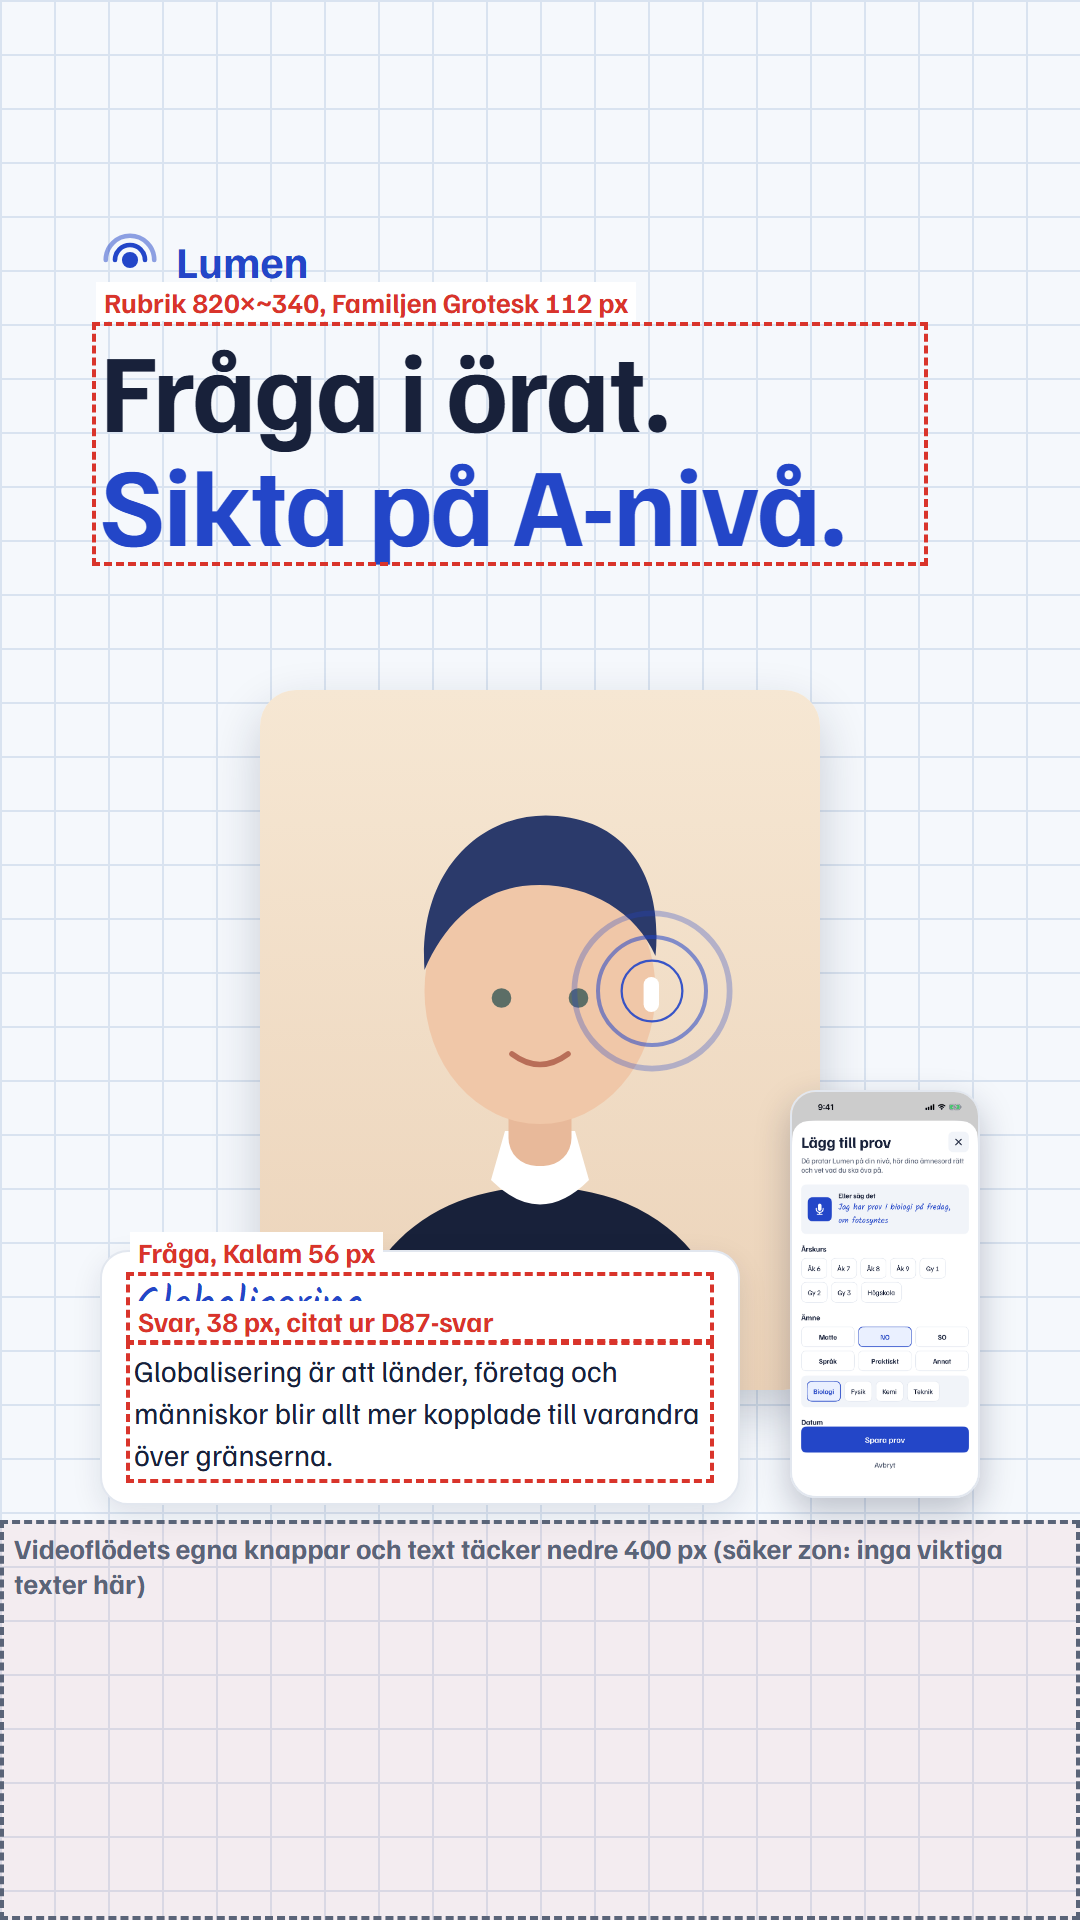
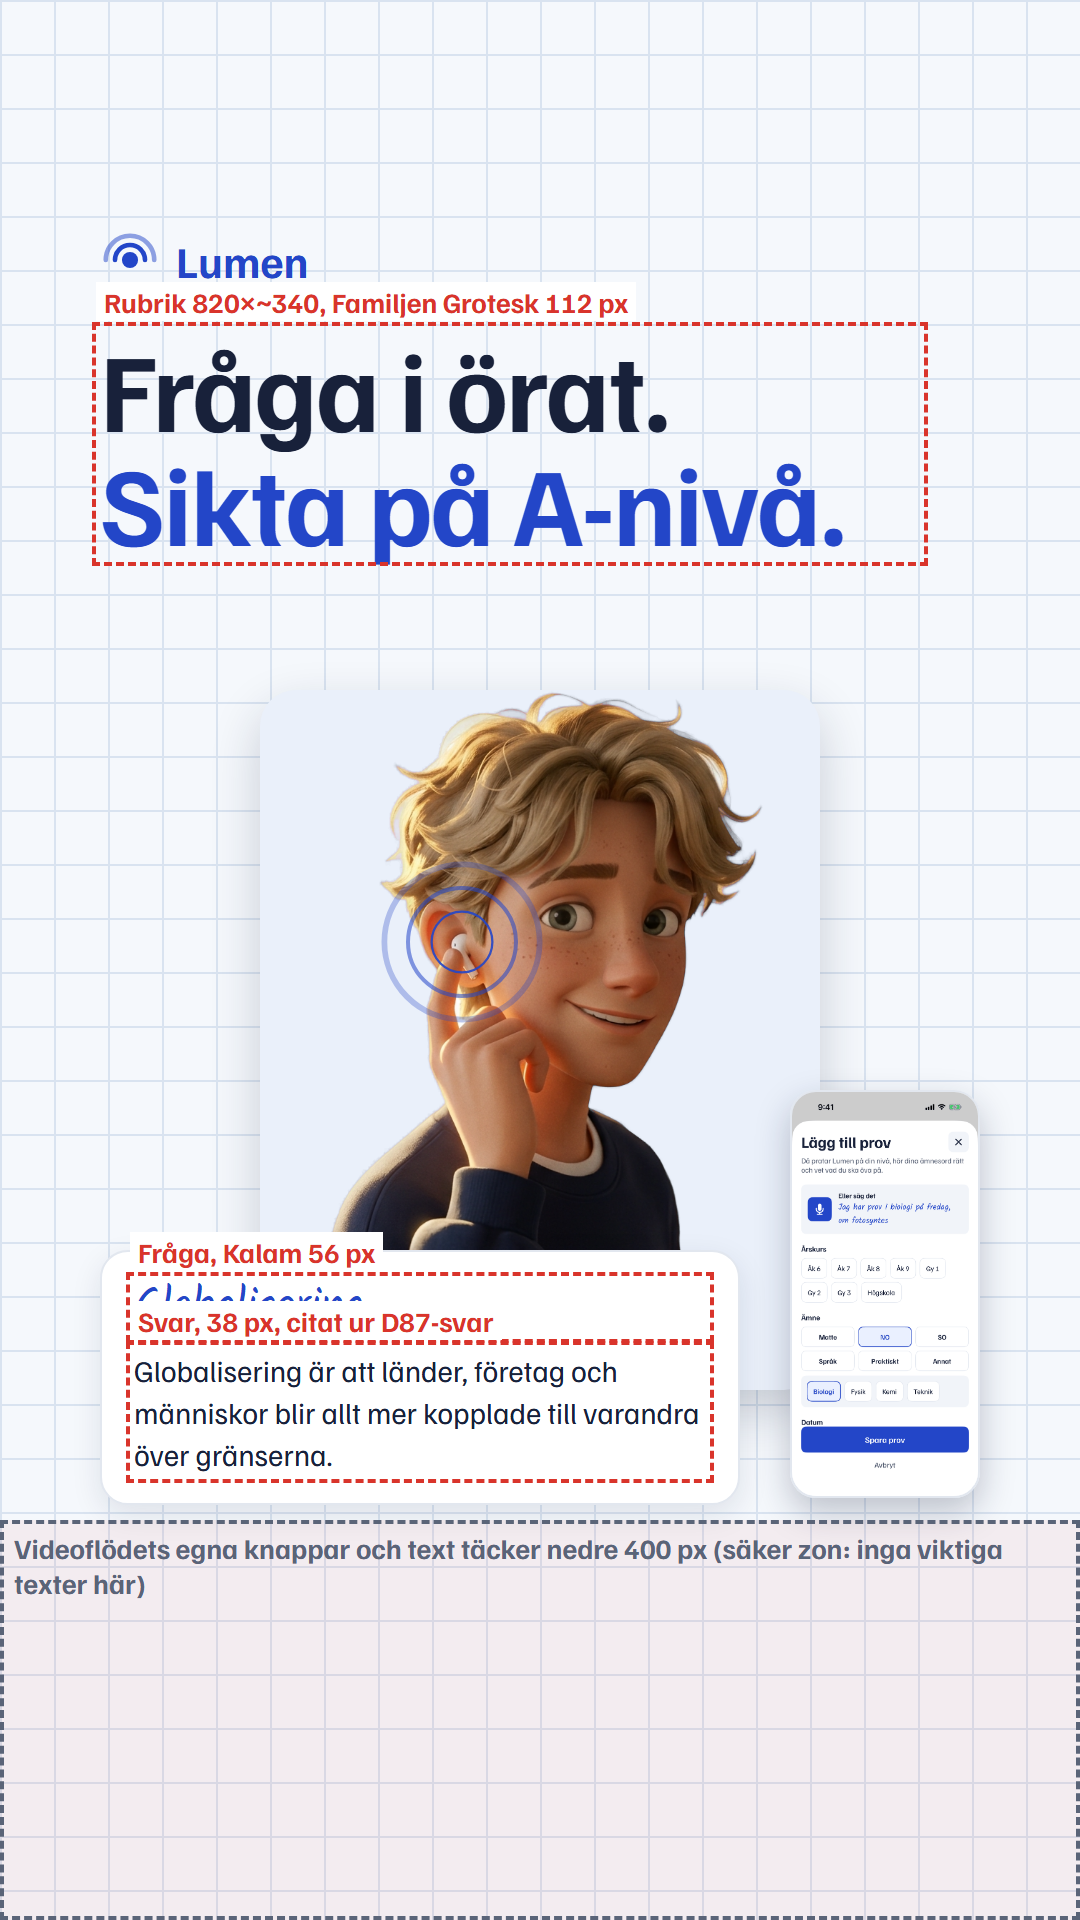
Kelly Ke7 klar: scrollstyrd Elias-hero, annonser och OG med riktiga bilden

Changed region(s): [[0.2139, 0.3438, 0.7639, 0.75]]

diff --git a/site/index.html b/site/index.html
@@ -16,7 +16,7 @@
 <meta property="og:url" content="https://aronstenlund-code.github.io/aronstenlund-airpods-ai/">
 <meta property="og:title" content="Fråga högt. Få svaret i örat.">
 <meta property="og:description" content="Telefonen stannar i fickan. Prova här, svaret läses upp.">
-<meta property="og:image" content="https://aronstenlund-code.github.io/aronstenlund-airpods-ai/og.png">
+<meta property="og:image" content="https://aronstenlund-code.github.io/aronstenlund-airpods-ai/og-elias.png">
 <meta property="og:image:width" content="1200">
 <meta property="og:image:height" content="630">
 <meta property="og:image:alt" content="Lumen. Fråga högt. Få svaret i örat.">
@@ -218,17 +218,18 @@
   .photo svg { width: 28px; height: 28px; }
   .photo span { max-width: 30ch; }
 
-  /* Ke7: Elias med ringar från hörluren. */
-  .elias { position: relative; margin: 0 auto; width: min(100%, 360px); aspect-ratio: 4 / 5; border-radius: 18px; overflow: hidden; background: var(--chip); border: 1px solid var(--line); }
-  .elias img { display: block; width: 100%; height: 100%; object-fit: cover; }
-  .rings { position: absolute; left: var(--ex); top: var(--ey); width: 0; height: 0; }
-  .rings i { position: absolute; left: -60px; top: -60px; width: 120px; height: 120px; border-radius: 50%; border: 3px solid #2346C8; opacity: 0; transform: scale(.15); }
-  @media (prefers-reduced-motion: no-preference) {
-    .rings i { animation: ering 3.6s cubic-bezier(.23,1,.32,1) infinite; }
-    .rings i:nth-child(2) { animation-delay: .35s; } .rings i:nth-child(3) { animation-delay: .7s; }
-    @keyframes ering { 0% { opacity: 0; transform: scale(.15); } 12% { opacity: .9; } 55%, 100% { opacity: 0; transform: scale(1.6); } }
-  }
-  @media (prefers-reduced-motion: reduce) { .rings i { opacity: .55; } .rings i:nth-child(1) { transform: scale(.3); } .rings i:nth-child(2) { transform: scale(.6); opacity: .35; } .rings i:nth-child(3) { transform: scale(.9); opacity: .2; } }
+  /* Ke7: Elias, scrollstyrd sekvens på canvas, ringar från hörluren. */
+  .elias { position: relative; margin: 0 auto; width: min(78%, 300px); aspect-ratio: 480 / 700; }
+  .elias img, .elias canvas { position: absolute; inset: 0; width: 100%; height: 100%; display: block; transform-origin: 50% 30%; will-change: transform; }
+  .elias canvas { visibility: hidden; }
+  .elias.live canvas { visibility: visible; } .elias.live img { visibility: hidden; }
+  .rings { position: absolute; left: var(--ex); top: var(--ey); width: 0; height: 0; pointer-events: none; }
+  .rings i { position: absolute; left: -50px; top: -50px; width: 100px; height: 100px; border-radius: 50%; border: 3px solid #2346C8; opacity: 0; transform: scale(.15); }
+  .elias.pulse .rings i { animation: ering 2.4s cubic-bezier(.23,1,.32,1) both; }
+  .elias.pulse .rings i:nth-child(2) { animation-delay: .25s; } .elias.pulse .rings i:nth-child(3) { animation-delay: .5s; }
+  @keyframes ering { 0% { opacity: 0; transform: scale(.15); } 15% { opacity: .9; } 70%, 100% { opacity: 0; transform: scale(1.8); } }
+  @media (prefers-color-scheme: dark) { .rings i { border-color: #7F9BFF; } }
+  @media (prefers-reduced-motion: reduce) { .elias.pulse .rings i { animation: none; opacity: .5; transform: scale(.7); } .elias.pulse .rings i:nth-child(2) { transform: scale(1.1); opacity: .3; } .elias.pulse .rings i:nth-child(3) { display: none; } }
 
   /* ---------- Demorutan ---------- */
   .demo {
@@ -583,7 +584,7 @@
     }
     .intro { grid-column: 1; grid-row: 1; }
     .points { grid-column: 1; grid-row: 2; }
-    .elias { grid-column: 1; grid-row: 3; margin: 0; width: min(100%, 420px); }
+    .elias { grid-column: 1; grid-row: 3; margin: 0; width: min(100%, 400px); }
     .demo { grid-column: 2; grid-row: 1 / span 3; align-self: start; position: sticky; top: 24px; padding: 26px 26px 28px; gap: 20px; }
     h1 { font-size: clamp(3.75rem, 6.2vw, 5.5rem); }
     .pitch { font-size: 1.5rem; margin-top: 16px; }
@@ -713,9 +714,10 @@
       <li><svg viewBox="0 0 24 24" fill="none" stroke="currentColor" stroke-width="2.2" stroke-linecap="round" stroke-linejoin="round" aria-hidden="true"><path d="M4 12.5l5 5L20 6.5"/></svg><span>Inget konto. Börja direkt.</span></li>
     </ul>
 
-    <!-- Ke7: Elias. Byt src mot img/elias.webp (frilagd bild, 4:5) när den finns; --ex/--ey är hörlurens plats i procent av bilden. -->
-    <figure class="elias" style="--ex:70%;--ey:43%">
-      <img src="img/elias-placeholder.svg" width="800" height="1000" alt="Elias, 17 år, med en vit trådlös hörlur i örat. Illustration, ingen verklig person.">
+    <!-- Ke7: Elias, scrollstyrd bildsekvens (site/img/elias-seq). Bild 1 laddas direkt, resten efter load. -->
+    <figure class="elias" id="elias" style="--ex:35%;--ey:33%">
+      <img id="elias-still" src="img/elias-seq/001.webp" width="480" height="700" alt="Elias, 17 år, med en vit trådlös hörlur i örat. AI-genererad figur, ingen verklig person.">
+      <canvas id="elias-cv" width="480" height="700" aria-hidden="true"></canvas>
       <span class="rings" aria-hidden="true"><i></i><i></i><i></i></span>
     </figure>
   </section>
@@ -1443,6 +1445,49 @@ showLeft();
 // Väcker funktionerna så att första frågan slipper kallstart. OPTIONS går igenom gatewayn och kostar ingenting.
 for (const fn of ["answer", "tts"]) fetch(SB + "/functions/v1/" + fn, { method: "OPTIONS" }).catch(() => {});
 getToken().catch(() => {});   // Felet visas när någon faktiskt frågar.
+
+// Ke7: scrollstyrd Elias. Visad bildruta glider mot målet (lerp), och vilar aldrig på en dålig vilobild.
+(() => {
+  const fig = document.getElementById("elias"); if (!fig) return;
+  const cv = document.getElementById("elias-cv"), still = document.getElementById("elias-still"), ctx = cv.getContext("2d");
+  const N = 120, BAD = [[22, 30], [48, 66], [85, 93]], RING = 38;
+  const reduced = matchMedia("(prefers-reduced-motion: reduce)").matches;
+  const step = matchMedia("(max-width: 959px)").matches ? 2 : 1;
+  const src = n => "img/elias-seq/" + String(n).padStart(3, "0") + ".webp";
+  if (reduced) { still.src = src(100); fig.classList.add("pulse"); return; }
+  const frames = new Array(N + 1);
+  let cur = 1, target = 1, shown = 1, tmo = 0, last = 0;
+  function load() {
+    const list = []; for (let n = 1; n <= N; n += step) list.push(n);
+    let i = 0;
+    const next = () => { if (i >= list.length) return; const n = list[i++]; const im = new Image(); im.decoding = "async"; im.onload = () => { frames[n] = im; if (n === 1) { fig.classList.add("live"); draw(1); } next(); }; im.onerror = next; im.src = src(n); };
+    next(); next();
+  }
+  function nearest(f) { for (let d = 0; d < N; d++) { if (frames[f - d]) return frames[f - d]; if (frames[f + d]) return frames[f + d]; } return null; }
+  function draw(f) { const im = nearest(f); if (im) { ctx.clearRect(0, 0, 480, 700); ctx.drawImage(im, 0, 0); } }
+  function progress() {
+    const r = fig.getBoundingClientRect(), vh = innerHeight;
+    return Math.min(1, Math.max(0, (vh * 0.85 - r.top) / (vh * 0.85)));
+  }
+  function settle() { // scrollen har stannat: glid till närmaste bra vilobild
+    for (const [a, b] of BAD) if (target >= a && target <= b) { target = (target - a < b - target) ? a - 1 : b + 1; }
+  }
+  function onScroll() { target = 1 + progress() * (N - 1); clearTimeout(tmo); tmo = setTimeout(settle, 140); kick(); }
+  let raf = 0; function kick() { if (!raf) raf = requestAnimationFrame(tick); }
+  function tick() {
+    raf = 0; shown += (target - shown) * 0.12;
+    if (Math.abs(target - shown) < 0.02) shown = target;
+    const f = Math.round(shown);
+    if (f !== cur) { cur = f; draw(f); }
+    if (cur >= RING) fig.classList.add("pulse"); else if (cur < RING - 8) fig.classList.remove("pulse");
+    const p = (shown - 1) / (N - 1); const z = 1 + 0.1 * p;
+    cv.style.transform = still.style.transform = `scale(${z.toFixed(3)}) translateY(${(-p * 2).toFixed(2)}%)`;
+    if (shown !== target) kick();
+  }
+  addEventListener("scroll", onScroll, { passive: true }); addEventListener("resize", onScroll);
+  const go = () => { load(); onScroll(); };
+  if (document.readyState === "complete") setTimeout(go, 0); else addEventListener("load", () => setTimeout(go, 0));
+})();
 </script>
 </body>
 </html>

diff --git a/docs/marketing/annonser/_src/ad.html b/docs/marketing/annonser/_src/ad.html
@@ -31,7 +31,7 @@ const ADS={
 2:{h:'Fråga i örat. <em>Sikta på A-nivå.</em>',q:'Globalisering',a:'Globalisering är att länder, företag och människor blir allt mer kopplade till varandra över gränserna.',img:'s12.png'},
 3:{h:'Plugga utan att <em>titta på skärmen</em>',q:'Vad händer i en näringskedja om rovdjuren försvinner?',a:'Om rovdjuren försvinner från en näringskedja rubbas balansen i hela kedjan.',img:'s47.png'}};
 const p=new URLSearchParams(location.search),n=p.get('n')||1,d=ADS[n];
-h.innerHTML=d.h;q.textContent=d.q;a.textContent=d.a;ph.src=d.img;el.src=p.get('real')?'elias-frilagd.png':'elias-placeholder.svg';
+h.innerHTML=d.h;q.textContent=d.q;a.textContent=d.a;ph.src=d.img;if(p.get('real')){document.querySelector('.el img').style.objectFit='contain';document.querySelector('.rg').style.cssText='left:36%;top:36%';document.querySelector('.el').style.background='#EAF0FA'}el.src=p.get('real')?'elias-frilagd.png':'elias-placeholder.svg';
 if(p.get('skiss')){document.body.classList.add('skiss');
  for(const [id,l] of [['h','Rubrik 820×~340, Familjen Grotesk 112 px'],['q','Fråga, Kalam 56 px'],['a','Svar, 38 px, citat ur D87-svar']]){const r=document.getElementById(id).getBoundingClientRect();const b=document.createElement('div');b.className='box';b.style.cssText=`left:${r.left-8}px;top:${r.top-8}px;width:${r.width+16}px;height:${r.height+16}px`;const t=document.createElement('span');t.textContent=l;t.style.cssText='position:absolute;left:0;top:-44px;background:#fff;padding:2px 8px;white-space:nowrap';b.appendChild(t);b.style.background='none';document.body.appendChild(b)}
  const z=document.createElement('div');z.className='box';z.style.cssText='left:0;top:1520px;width:1080px;height:400px;color:#5A6478;border-color:#5A6478';z.textContent='Videoflödets egna knappar och text täcker nedre 400 px (säker zon: inga viktiga texter här)';document.body.appendChild(z)}

diff --git a/docs/marketing/annonser/_src/og.html b/docs/marketing/annonser/_src/og.html
@@ -10,4 +10,4 @@ h1{position:absolute;left:70px;top:200px;width:620px;font-size:92px;line-height:
 </style><body><div class="l"><svg viewBox="0 0 26 26" fill="none"><circle cx="13" cy="13" r="3.5" fill="currentColor"/><path d="M6.5 13a6.5 6.5 0 0 1 13 0" stroke="currentColor" stroke-width="2" stroke-linecap="round"/><path d="M2.5 13a10.5 10.5 0 0 1 21 0" stroke="currentColor" stroke-width="2" stroke-linecap="round" opacity=".5"/></svg>Lumen</div>
 <h1>Fråga högt. <em>Få svaret i örat.</em></h1>
 <div class="el"><img id="el"><span class="rg"><i></i><i></i><i></i></span></div>
-<script>el.src=location.search.includes('real')?'elias-frilagd.png':'elias-placeholder.svg'</script></body>
+<script>el.src=location.search.includes('real')?'elias-frilagd.png':'elias-placeholder.svg';if(location.search.includes('real')){document.querySelector('.el img').style.objectFit='contain';document.querySelector('.rg').style.cssText='left:36%;top:36%'}</script></body>

diff --git a/prompts/queue/kelly.md b/prompts/queue/kelly.md
@@ -25,7 +25,7 @@ Aron (2026-11-08): demosidan måste bli väldigt bra.
 
 - [x] klar 2026-11-09 19:45 → reports/2026-11-09-1940-kelly-ke6-annonser.md **Ke6 – Tre annonsbilder för korta videoflöden** (effort: medium). Gör 3 stillbilder, 1080×1920 (TikTok, Snapchat, Reels), i `docs/marketing/annonser/`, i sidans stil (rutpapper, handstil). Använd riktiga skärmbilder från T3 och en riktig fråga och ett riktigt svar från D87-körningen. Svensk text till högstadie- och gymnasieelever, med en vinkel per bild: "Bli förhörd inför provet", "Fråga i örat, få A-nivåsvaret", "Plugga utan att titta på skärmen". Regler: inga påståenden om svarstid i sekunder, inget om funktioner som inte är testade på telefon, inget om fusk på prov, och ingen verklig person. Bilderna ska vara PNG på högst 500 kB och ha en skiss för textrutorna. Aron väljer själv vilka som används.
 
-- [~] pågår, byggd med platshållare 2026-11-09 21:20 (väntar på docs/marketing/elias-frilagd.png; rapport reports/2026-11-09-2120-kelly-ke7-elias.md) **Ke7 – Annonserna och demosidan med karaktären Elias** (effort: medium). Läs `docs/marketing/karaktar.md`. Aron har valt en egen figur i varm, stiliserad 3D. Den frilagda bilden kommer i `docs/marketing/elias-frilagd.png` (Deangelo lägger in den).
+- [x] klar 2026-11-10 00:10 → reports/2026-11-10-0010-kelly-ke7-elias-klar.md (Safari/iPhone ej provad) **Ke7 – Annonserna och demosidan med karaktären Elias** (effort: medium). Läs `docs/marketing/karaktar.md`. Aron har valt en egen figur i varm, stiliserad 3D. Den frilagda bilden kommer i `docs/marketing/elias-frilagd.png` (Deangelo lägger in den).
   1. Gör om Ke6:s tre annonsbilder med Elias i stället för skärmbilder som huvudmotiv. Skärmbilden får vara kvar som en mindre detalj.
   2. **Scrollstyrd hero (Aron 2026-11-09):** Elias rör sig när man scrollar, som på Apples produktsidor. Han trycker på hörluren, ler och tittar in i kameran. Bildsekvensen finns nu: 120 frilagda WebP-bilder (480×700, totalt 2,6 MB) i `site/img/elias-seq/`, med `manifest.json`. Där står dåliga vilolägen (blinkning och handen i rörelse), när ringarna ska starta och ungefär var hörluren sitter. Rita bilderna på en `<canvas>` som är kopplad till scrollpositionen. Använd inte en video som spolas, eftersom det hackar i Safari. De blå ringarna (CSS/SVG) sprids från hörluren när han trycker. Krav: första bilden laddas direkt och resten först när sidan är klar. Mobil får varannan bild. Med "Reducera rörelse" visas en stillbild. Lighthouse ska hålla minst 95.
      **Glid, så att den aldrig stannar tvärt (Aron 2026-11-09):** visad bildruta följer scrollens mål mjukt, med en fjäder eller lerp (cirka 0,12 per bildruta, så att det lägger sig på 150–250 ms) och aldrig 1:1. När scrollen stannar glider rörelsen ut och fryser inte. Om den stannar på en dålig vilobild (halvblink eller handen i rörelse, listan kommer med sekvensen) glider den till närmaste bra vilobild. Zoom och förflyttning görs med CSS-transform på canvasen, inte i videon. Ringarna startar i bildrutan där fingret når hörluren.

diff --git a/prompts/queue/BOARD.md b/prompts/queue/BOARD.md
@@ -15,4 +15,4 @@ Kolumnerna:
 | Angela (app) | Opus 5.5 (claude-opus-5-5, bekräftat) | low (sessionens inställning) | A13 designgranskning (Inställningar Vanliga/Avancerat, nivåmätare, tomt läge, flera prov, Fler lägen, intro-hero) | jobbar | A9 och A14 klara, grönt i CI 42690189387: kommandon med egna ord + ångra, inlärda inställningar (K10), 0/11 falska träffar, felhörda verbformer fungerar; ej på enhet | 2026-11-09 21:26 |
 | Oscar (QA) | Opus 5.5 (bekräftat) | high (bekräftat) | – | väntar på kö | O10 klar: K10 appkommandon egna ord 13/20 (0/15 falska), rättelser egna ord 3/20, andra rättelsen behövs inte 15/20, vidgning mellan lägen trasig; K8 14/15; telefonfiltret byter 'omkring 800 000' | 2026-11-09 21:10 |
 | Toby (apptest) | Opus 5.5 (claude-opus-5-5, bekräftat) | high | T5 (omtest efter A8 och A11: Frågor, Provläge, långt keyterm, T2 60 min igen) | jobbar | T6 klar: 485/541 kommandon rätt i 5 lägen, 5 falska träffar av 68 ("Lumen" mitt i en mening), 6 fynd till Angela | 2026-11-09 20:05 |
-| Kelly (demosida) | Sonnet 5.5 | medium | Ke7 klar med platshållare, väntar på elias-frilagd.png | väntar på bild | Ke7: Elias i hero med ringar, 3 annonser omgjorda, ny OG (alla med platshållare). Lighthouse mobil 99, dator 100 | 2026-11-09 21:20 |
+| Kelly (demosida) | Sonnet 5.5 | medium | – (kön tom) | väntar på kö | Ke7 klar: scrollstyrd Elias-hero (120 bilder, lerp, vilobilder, ringar), 3 annonser + OG med riktiga bilden. Lighthouse 100 på alla lokalt. Safari/iPhone ej provad | 2026-11-10 00:10 |

diff --git a/reports/2026-11-10-0010-kelly-ke7-elias-klar.md b/reports/2026-11-10-0010-kelly-ke7-elias-klar.md
@@ -1,0 +1,7 @@
+# Kelly Ke7 klar: Elias med riktig bild och scrollstyrd hero
+- **Hero:** `site/index.html`, scrollstyrd bildsekvens (`site/img/elias-seq`, 120 WebP) på `<canvas>`. Bild 1 visas direkt som `<img>`, resten laddas efter `load` (mobil: varannan bild). Visad bild glider mot målet med lerp 0,12 per bildruta, vilar aldrig på de dåliga bilderna (22–30, 48–66, 85–93: glider till närmaste bra bild efter 140 ms utan scroll), zoom och förflyttning med CSS-transform. Tre blå ringar (CSS) startar när bild 38 nås. "Reducera rörelse": stillbild (bild 100) och stilla ringar. Ringarnas plats justerad efter bild 38 (35 %, 33 %).
+- **Annonser:** de tre bilderna omgjorda med `elias-frilagd.png` som huvudmotiv (387–394 kB PNG), skisser uppdaterade. Rendering: `docs/marketing/annonser/_src/ad.html?n=1&real=1`.
+- **Delningsbild:** `site/og-elias.png` (1200×630, 310 kB) är nu og:image. `og.png` finns kvar som reserv.
+- **Lighthouse (lokalt):** mobil 100/100/100/100, dator 100/100/100/100. Sidan väger 1,5 MB mobil, 2,8 MB dator efter att sekvensen laddats (sekvensen laddas efter load, påverkar inte Performance-poängen).
+- **Verifierat:** skrolleffekten provad i webbläsarpanelen på dator (ringar startar, zoom följer, canvas aktiv). **Untested:** Safari/iPhone (rörelsen, canvas-prestanda), mobil scroll, mörkt/ljust läge granskat bara delvis. Bilderna är AI-genererade och märkta så i alt-texten.
+- Namnkrock löst: klassen heter `pulse`, inte `ring` (den finns redan i demon).
